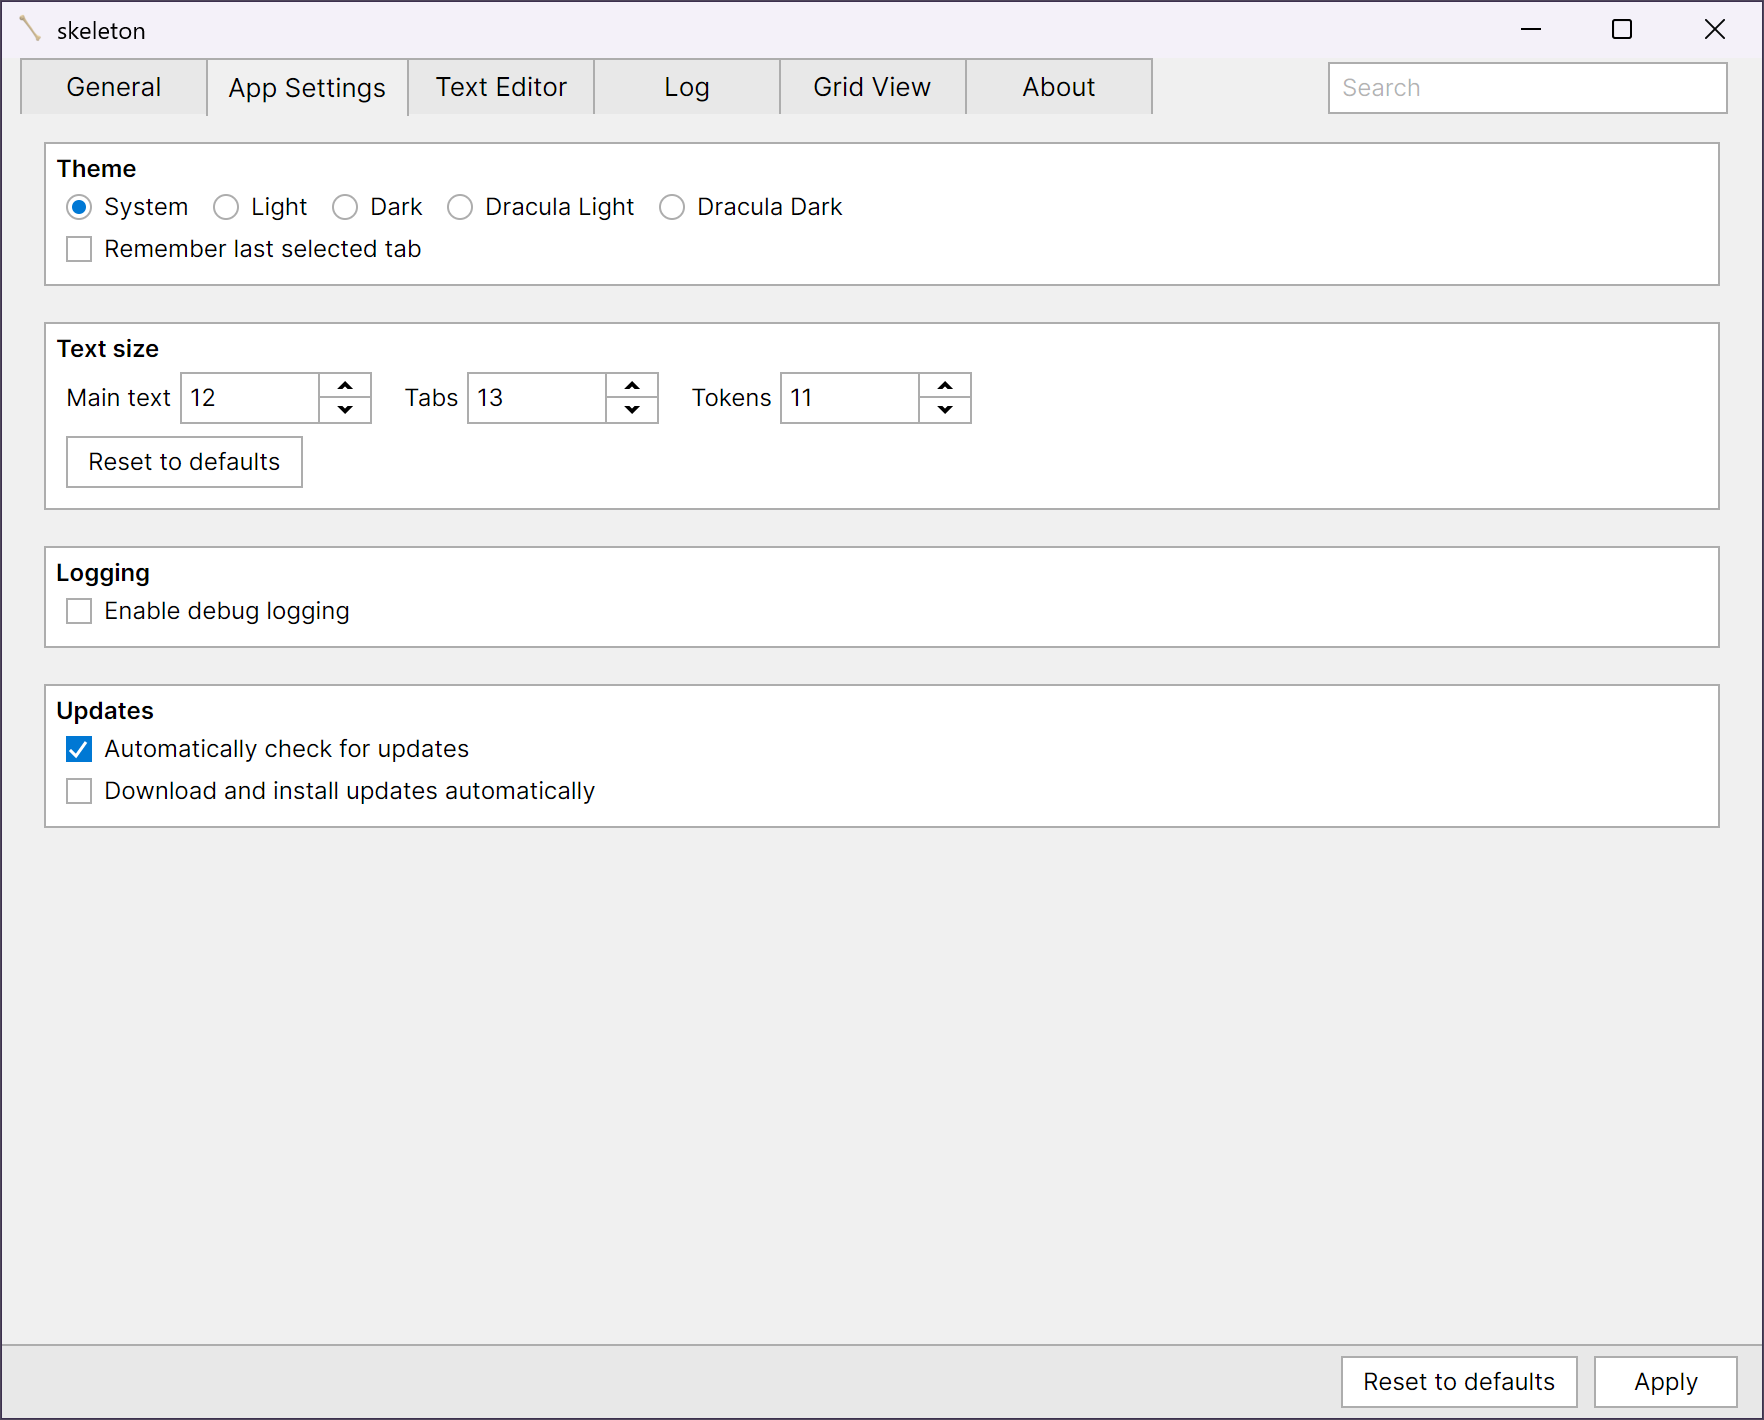
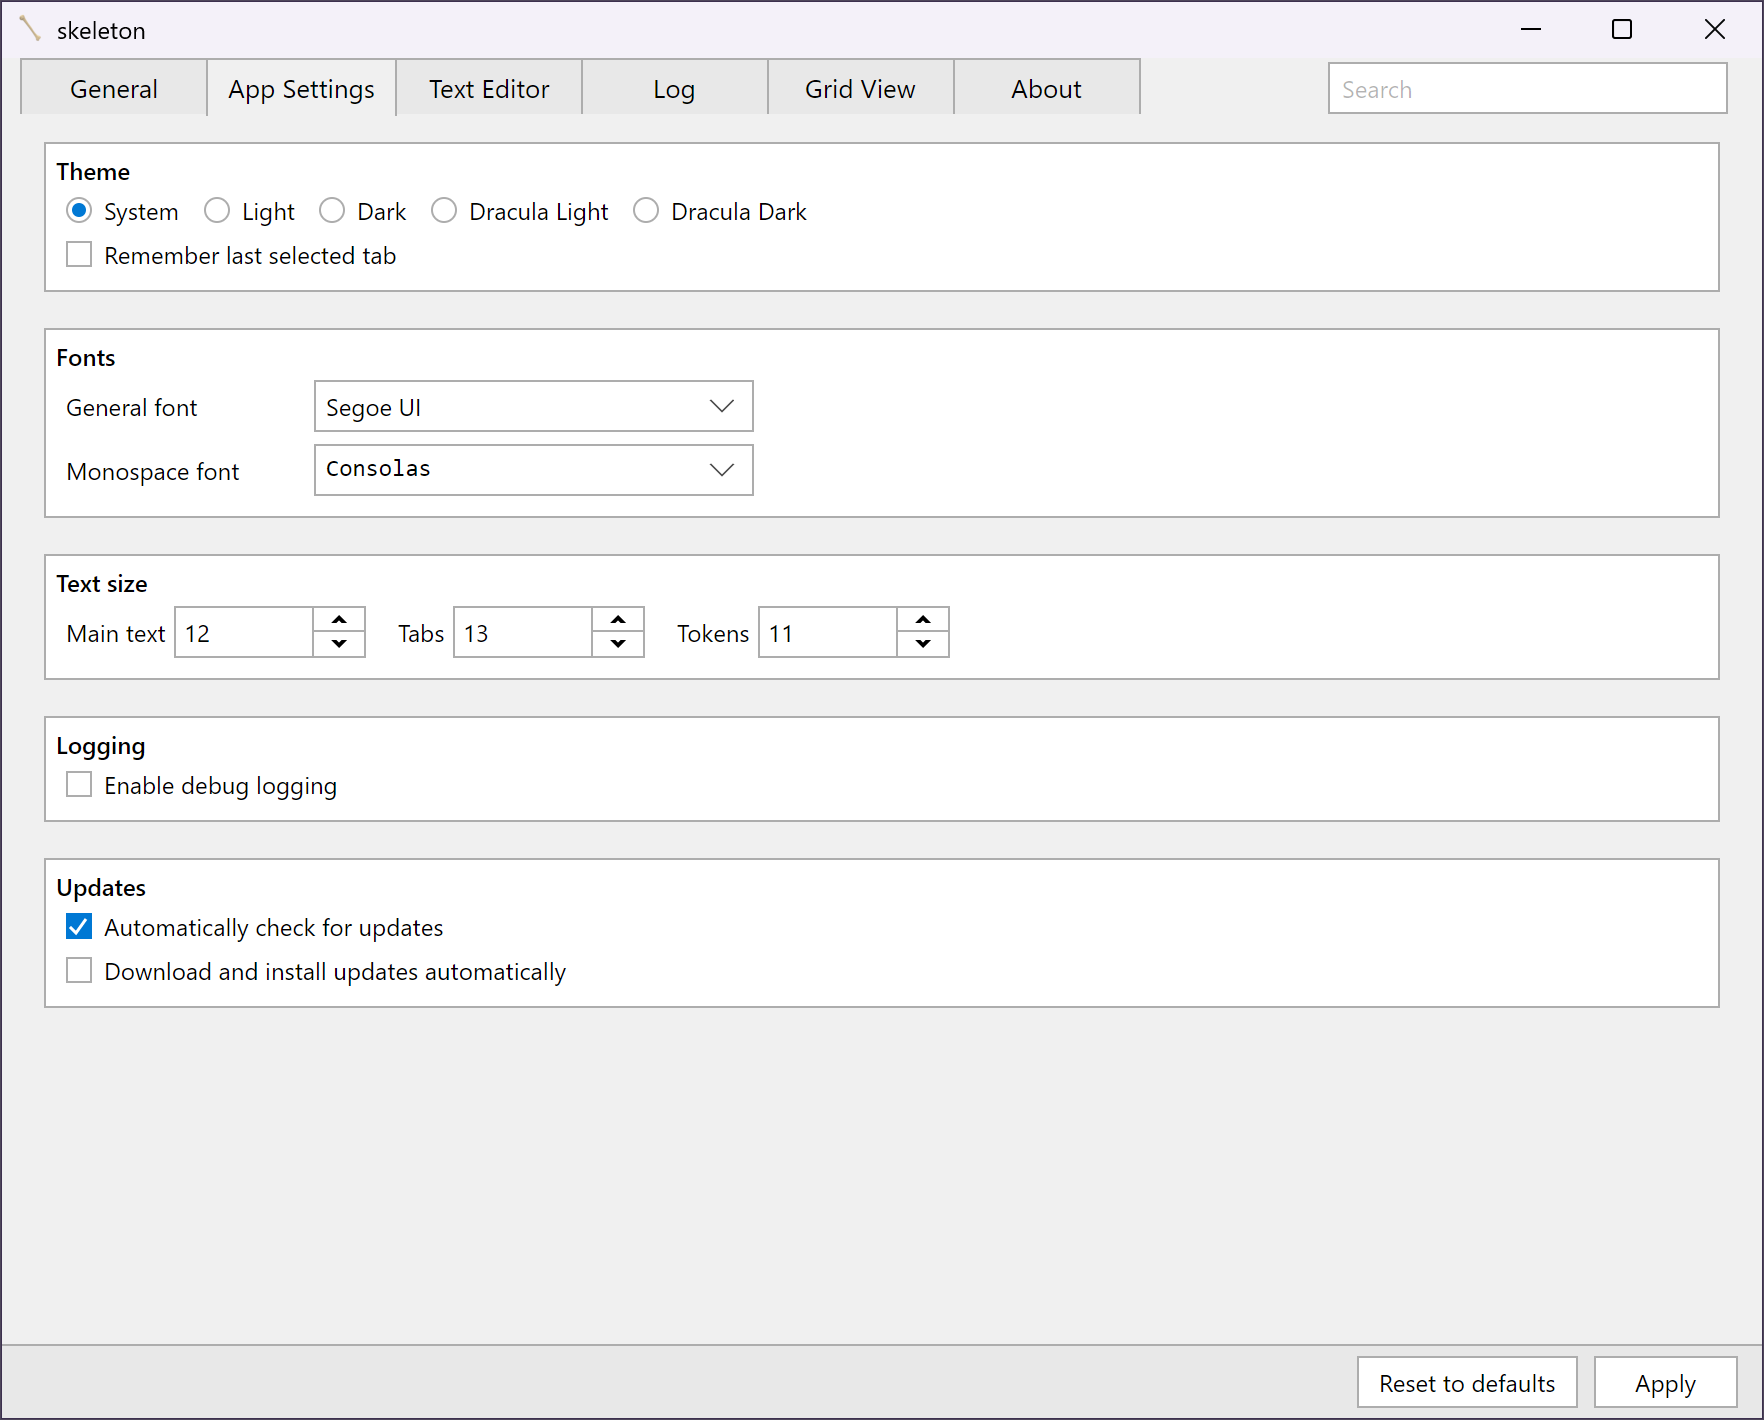
Minor fixes (v0.2.1)
- Fix link in about
- Update app settings screenshot
- Auto-update installer version when building
- Add file version and copyright info to all built binaries

diff --git a/skeleton/UI/AboutTabBuilder.cs b/skeleton/UI/AboutTabBuilder.cs
@@ -22,7 +22,7 @@ internal static class AboutTabBuilder
 
         var version = new SelectableTextBlock { Text = viewModel.VersionText };
 
-        var repo = new SelectableTextBlock
+        var repo = new TextBlock
         {
             Text = viewModel.RepoUrl,
             Classes = { "about-link" },
@@ -44,7 +44,7 @@ internal static class AboutTabBuilder
             Spacing = 8,
             VerticalAlignment = VerticalAlignment.Top,
             HorizontalAlignment = HorizontalAlignment.Left,
-            Children = { version, repo, checkBtn, lead },
+            Children = { version, lead, repo, checkBtn },
         };
 
         var layout = new Grid

diff --git a/skeleton.Core/AppBranding.cs b/skeleton.Core/AppBranding.cs
@@ -13,7 +13,7 @@ public static class AppBranding
 
     public const string RepoOwner = "fosterbarnes";
 
-    public const string CopyrightHolder = "FosterBarnes";
+    public const string CopyrightHolder = "Foster Barnes";
 
     public static string UpdaterTitle => $"{DisplayName} Updater";
 

diff --git a/README.md b/README.md
@@ -17,9 +17,9 @@ Cross-platform Avalonia app skeleton for .NET C# projects with theming, tabs, se
 <table border="0">
 <tbody>
 <tr>
-<td align="center" valign="top"><a href="https://github.com/fosterbarnes/skeleton/releases/download/v0.2.0/skeletonInstaller_v0.2.0_x64.exe"><img src="./.resources/svg/download_x64.svg" width="180" height="auto" alt="x64 installer"/></a></td>
-<td align="center" valign="top"><a href="https://github.com/fosterbarnes/skeleton/releases/download/v0.2.0/skeletonInstaller_v0.2.0_x86.exe"><img src="./.resources/svg/download_x86.svg" width="180" height="auto" alt="x86 installer"/></a></td>
-<td align="center" valign="top"><a href="https://github.com/fosterbarnes/skeleton/releases/download/v0.2.0/skeletonInstaller_v0.2.0_arm64.exe"><img src="./.resources/svg/download_arm.svg" width="180" height="auto" alt="ARM64 installer"/></a></td>
+<td align="center" valign="top"><a href="https://github.com/fosterbarnes/skeleton/releases/download/v0.2.1/skeletonInstaller_v0.2.1_x64.exe"><img src="./.resources/svg/download_x64.svg" width="180" height="auto" alt="x64 installer"/></a></td>
+<td align="center" valign="top"><a href="https://github.com/fosterbarnes/skeleton/releases/download/v0.2.1/skeletonInstaller_v0.2.1_x86.exe"><img src="./.resources/svg/download_x86.svg" width="180" height="auto" alt="x86 installer"/></a></td>
+<td align="center" valign="top"><a href="https://github.com/fosterbarnes/skeleton/releases/download/v0.2.1/skeletonInstaller_v0.2.1_arm64.exe"><img src="./.resources/svg/download_arm.svg" width="180" height="auto" alt="ARM64 installer"/></a></td>
 </tr>
 </tbody>
 </table>
@@ -27,9 +27,9 @@ Cross-platform Avalonia app skeleton for .NET C# projects with theming, tabs, se
 <table border="0">
 <tbody>
 <tr>
-<td align="center" valign="top"><a href="https://github.com/fosterbarnes/skeleton/releases/download/v0.2.0/skeletonPortable_v0.2.0_x64.zip"><img src="./.resources/svg/download_portable_x64.svg" width="180" height="auto" alt="x64 portable"/></a></td>
-<td align="center" valign="top"><a href="https://github.com/fosterbarnes/skeleton/releases/download/v0.2.0/skeletonPortable_v0.2.0_x86.zip"><img src="./.resources/svg/download_portable_x86.svg" width="180" height="auto" alt="x86 portable"/></a></td>
-<td align="center" valign="top"><a href="https://github.com/fosterbarnes/skeleton/releases/download/v0.2.0/skeletonPortable_v0.2.0_arm64.zip"><img src="./.resources/svg/download_portable_arm64.svg" width="180" height="auto" alt="ARM64 portable"/></a></td>
+<td align="center" valign="top"><a href="https://github.com/fosterbarnes/skeleton/releases/download/v0.2.1/skeletonPortable_v0.2.1_x64.zip"><img src="./.resources/svg/download_portable_x64.svg" width="180" height="auto" alt="x64 portable"/></a></td>
+<td align="center" valign="top"><a href="https://github.com/fosterbarnes/skeleton/releases/download/v0.2.1/skeletonPortable_v0.2.1_x86.zip"><img src="./.resources/svg/download_portable_x86.svg" width="180" height="auto" alt="x86 portable"/></a></td>
+<td align="center" valign="top"><a href="https://github.com/fosterbarnes/skeleton/releases/download/v0.2.1/skeletonPortable_v0.2.1_arm64.zip"><img src="./.resources/svg/download_portable_arm64.svg" width="180" height="auto" alt="ARM64 portable"/></a></td>
 </tr>
 </tbody>
 </table>
@@ -98,18 +98,18 @@ Cross-platform Avalonia app skeleton for .NET C# projects with theming, tabs, se
 | Linux      | x64, arm64      | Planned |
 
 <!-- Quick Reference --
-version = 0.2.0
+version = 0.2.1
 
-x64Installer = https://github.com/fosterbarnes/skeleton/releases/download/v0.2.0/skeletonInstaller_v0.2.0_x64.exe
+x64Installer = https://github.com/fosterbarnes/skeleton/releases/download/v0.2.1/skeletonInstaller_v0.2.1_x64.exe
 
-x64Portable = https://github.com/fosterbarnes/skeleton/releases/download/v0.2.0/skeletonPortable_v0.2.0_x64.zip
+x64Portable = https://github.com/fosterbarnes/skeleton/releases/download/v0.2.1/skeletonPortable_v0.2.1_x64.zip
 
-x86Installer = https://github.com/fosterbarnes/skeleton/releases/download/v0.2.0/skeletonInstaller_v0.2.0_x86.exe
+x86Installer = https://github.com/fosterbarnes/skeleton/releases/download/v0.2.1/skeletonInstaller_v0.2.1_x86.exe
 
-x86Portable = https://github.com/fosterbarnes/skeleton/releases/download/v0.2.0/skeletonPortable_v0.2.0_x86.zip
+x86Portable = https://github.com/fosterbarnes/skeleton/releases/download/v0.2.1/skeletonPortable_v0.2.1_x86.zip
 
-ARM64Installer = https://github.com/fosterbarnes/skeleton/releases/download/v0.2.0/skeletonInstaller_v0.2.0_arm64.exe
+ARM64Installer = https://github.com/fosterbarnes/skeleton/releases/download/v0.2.1/skeletonInstaller_v0.2.1_arm64.exe
 
-ARM64Portable = https://github.com/fosterbarnes/skeleton/releases/download/v0.2.0/skeletonPortable_v0.2.0_arm64.zip
+ARM64Portable = https://github.com/fosterbarnes/skeleton/releases/download/v0.2.1/skeletonPortable_v0.2.1_arm64.zip
 -->
 